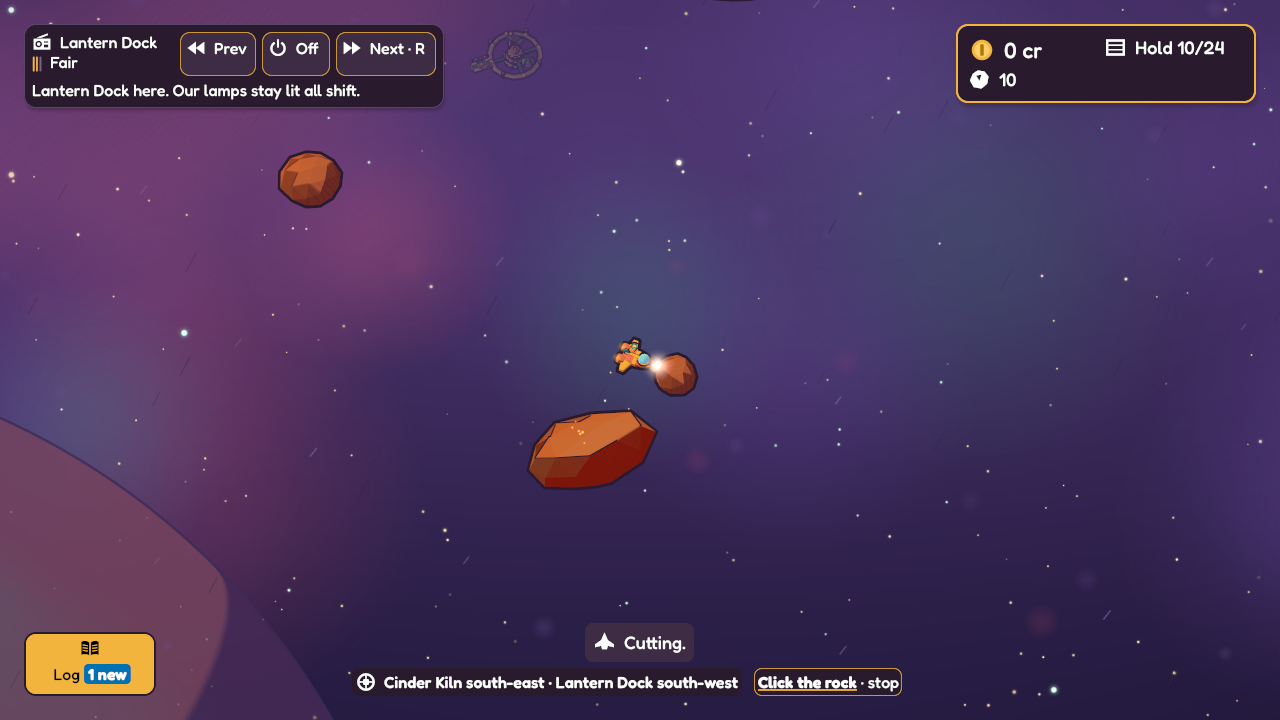
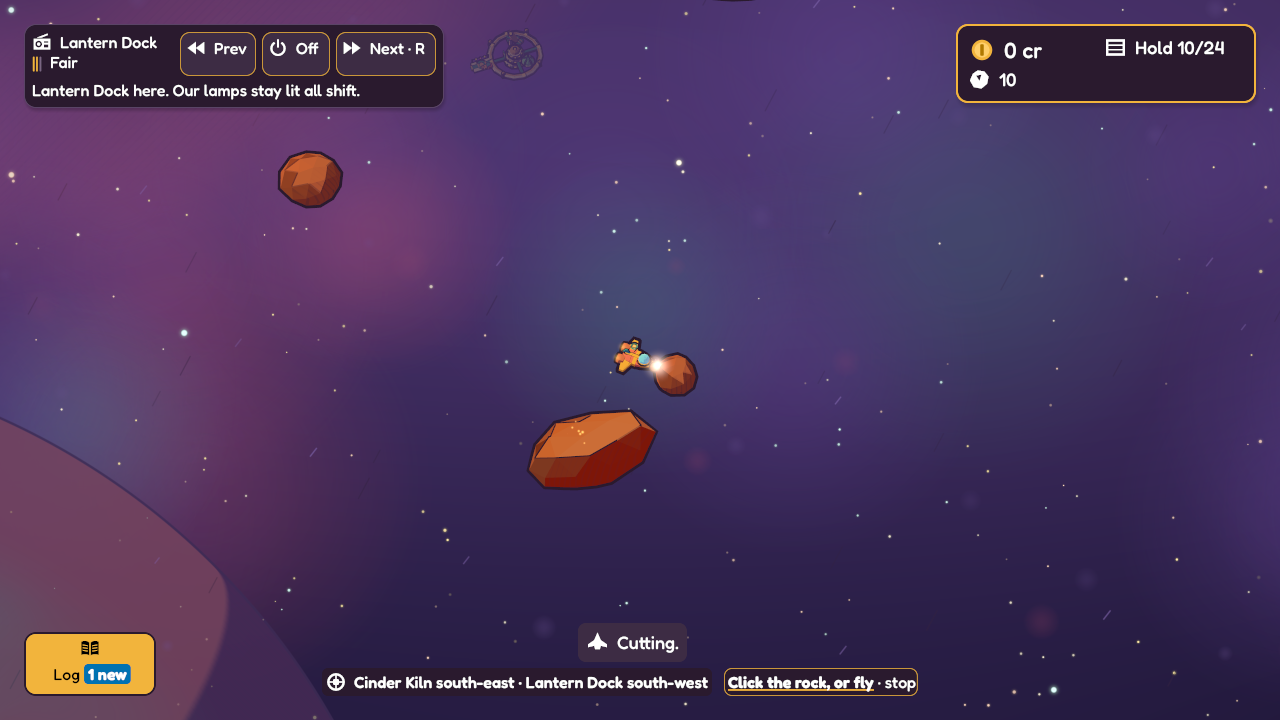
Core: the stop key goes with the beam, and nothing is lost in the split
- The key that stops the beam clears when the beam goes off; a beam let go
  before its first unit says "Beam off." instead of leaving "Cutting." up.
- The latched key keeps both ways to stop it ("Click the rock, or fly"),
  and the chosen-rock key keeps "or click another".
- Glazing splits into a notice, a lesson and the key pill; the unit count
  says "glazed: cutting slowly".
- New scenario tests/stop-key.toml; cutting and chosen-rock check the new
  parts. Frames for glazing, the released beam and the chosen rock.

Changed region(s): [[0.25, 0.8861, 0.7188, 0.9778]]

diff --git a/game/modules/core/README.md b/game/modules/core/README.md
@@ -271,10 +271,11 @@ ice and glassite); glazed stone goes pale and flat, unhatched like glaze on a po
 shimmers all over (`looks.*_glazed`, `particles.glazed_*`). The beam: on glazed stone it goes pale and flickers, its sparks
 thrown wide and no chips coming back up it (`beams.cutter_glazed`). The words: each
 unit's count ends with the stone's state ("cold stone, it warms as you cut", "warm:
-cutting fast", "glazed: put the beam on another rock"), the moment it glazes the line
-says "The stone glazes and the beam skates: put it on another rock while this one cools.",
-and the hint strip says "Click another rock, or turn onto one · this one has glazed, let it
-cool" until the beam has been moved off a hot rock three times (`taught.swap`).
+cutting fast", "glazed: cutting slowly"). The moment it glazes, the notice says "The stone
+has glazed: the beam skates on it.", a lesson under it says "Glazed stone cools once the
+beam is off it.", and the key pill says "Click another rock,
+or A or D · move the beam", which stays until the beam has been moved off a hot rock
+three times (`taught.swap`).
 
 Moving the beam is a turn (A or D, Space held) or a click on the other rock: in reach but
 off the nose, she turns onto it where she sits (a quarter turn in about half a second, no
